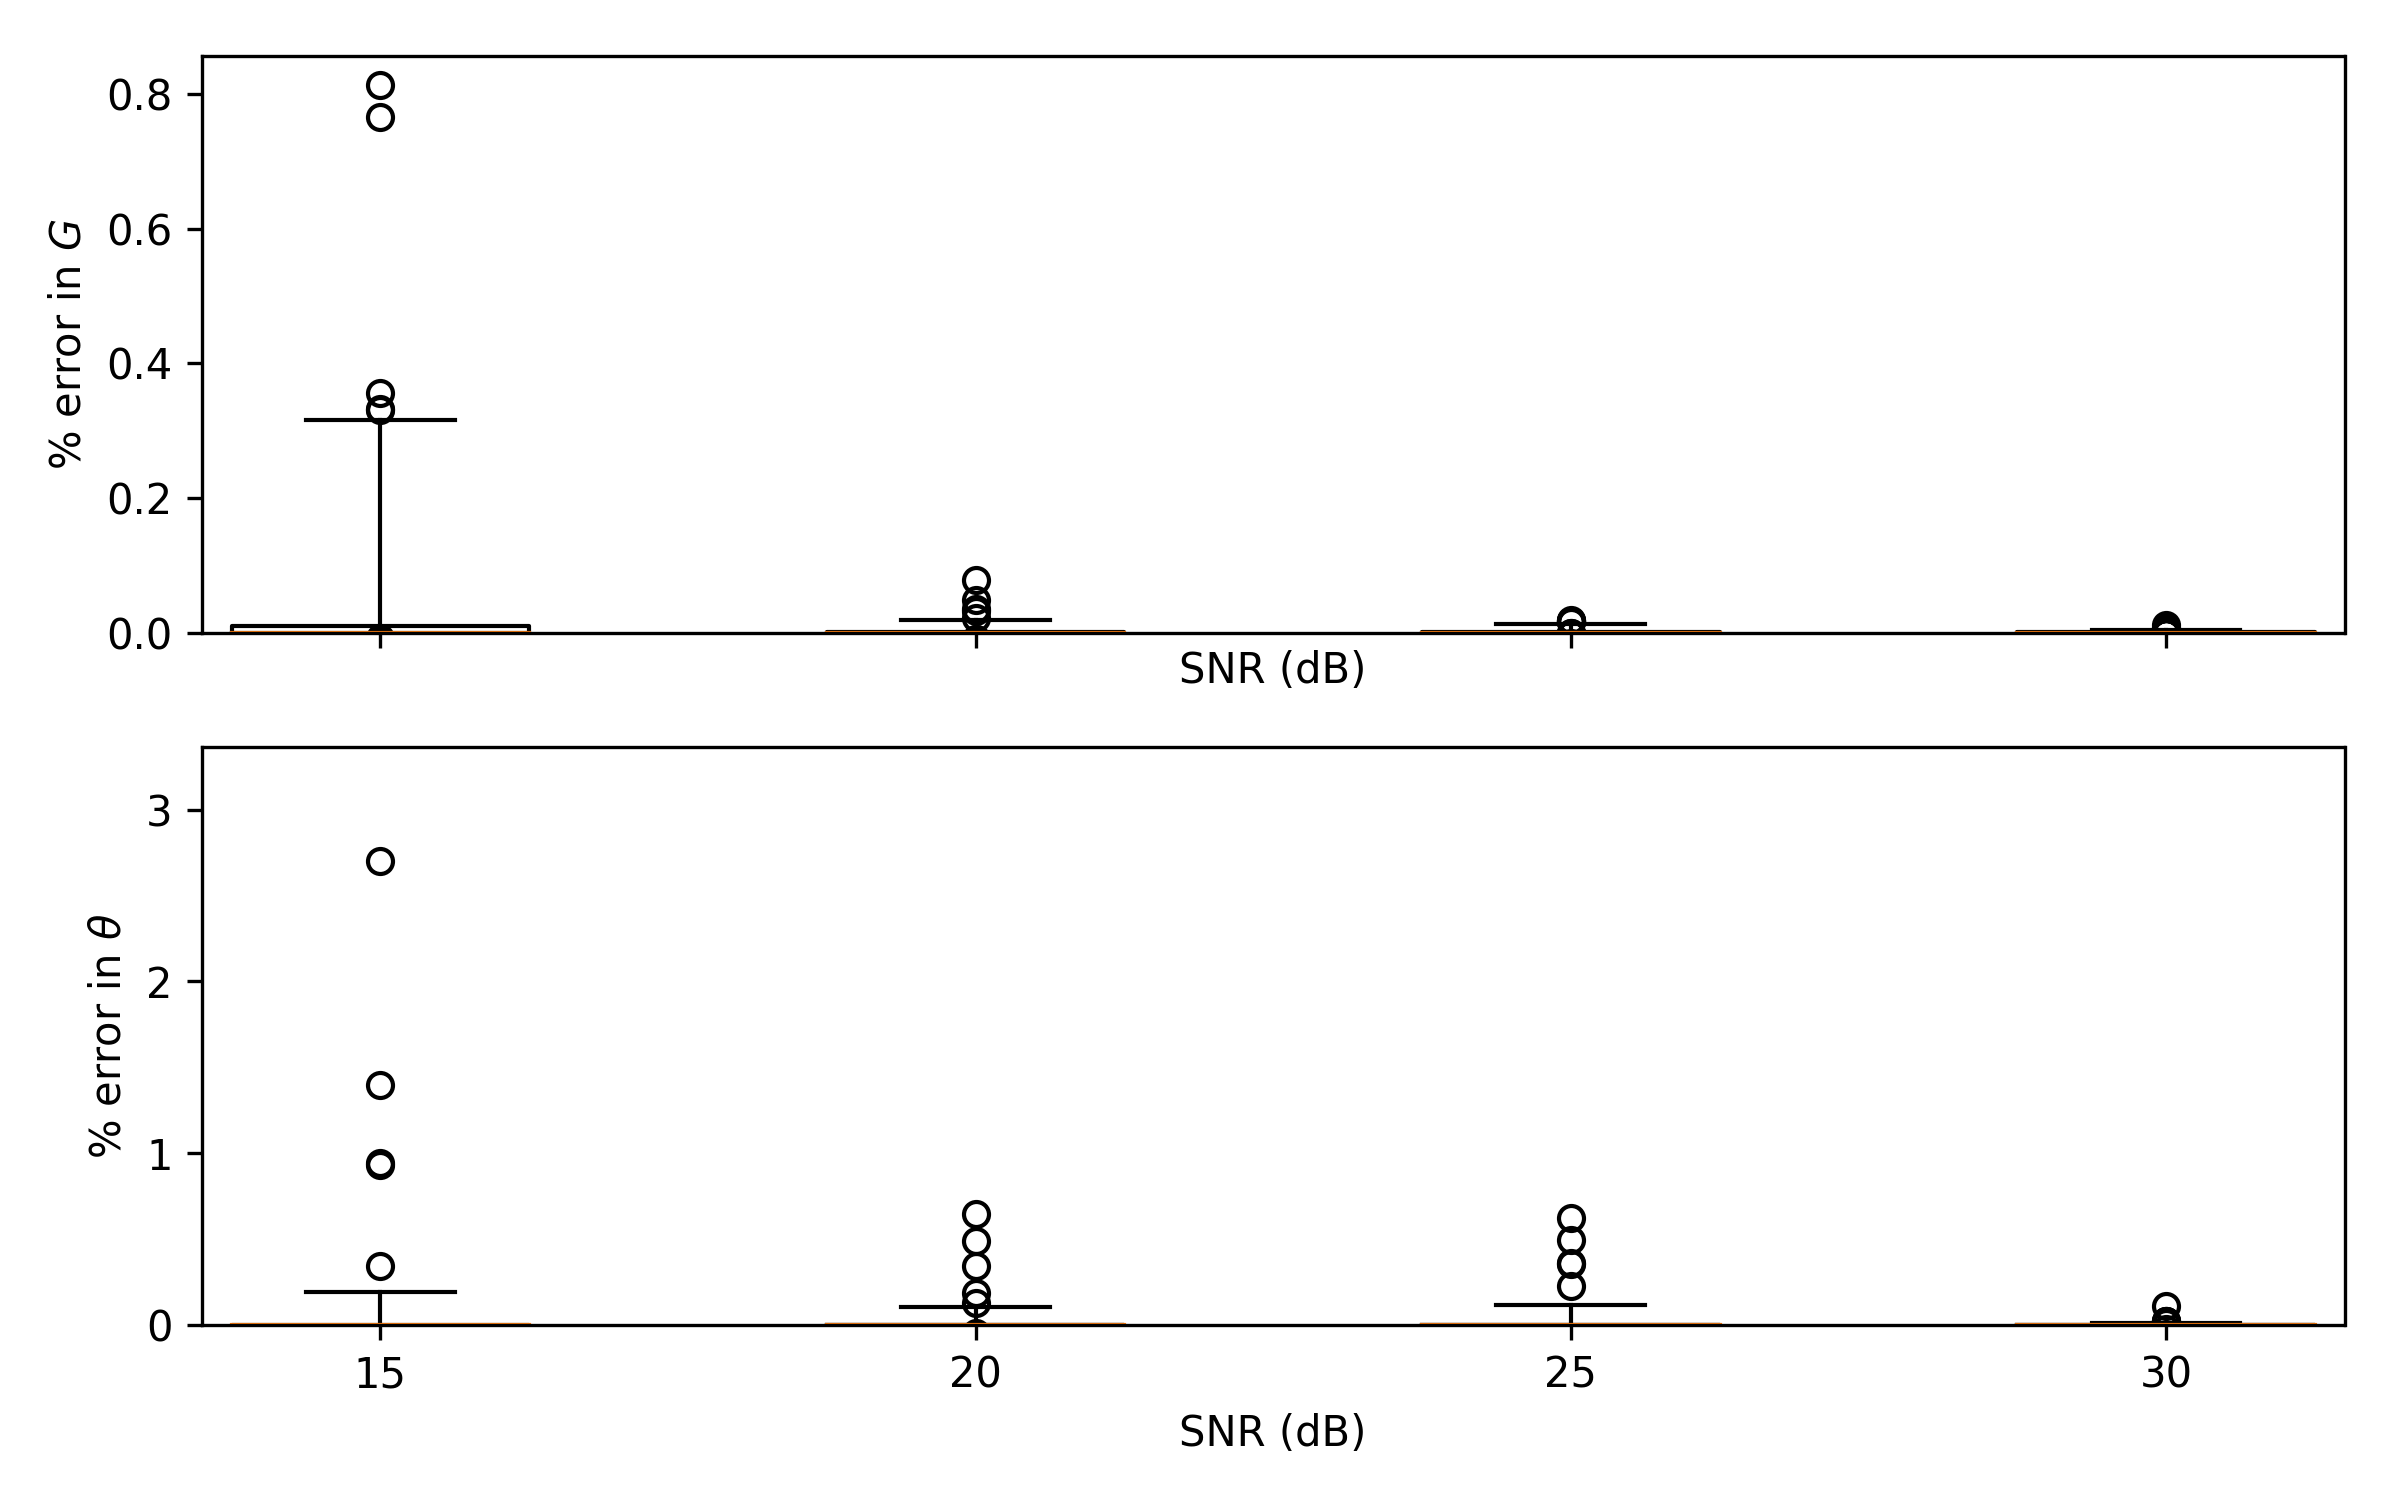
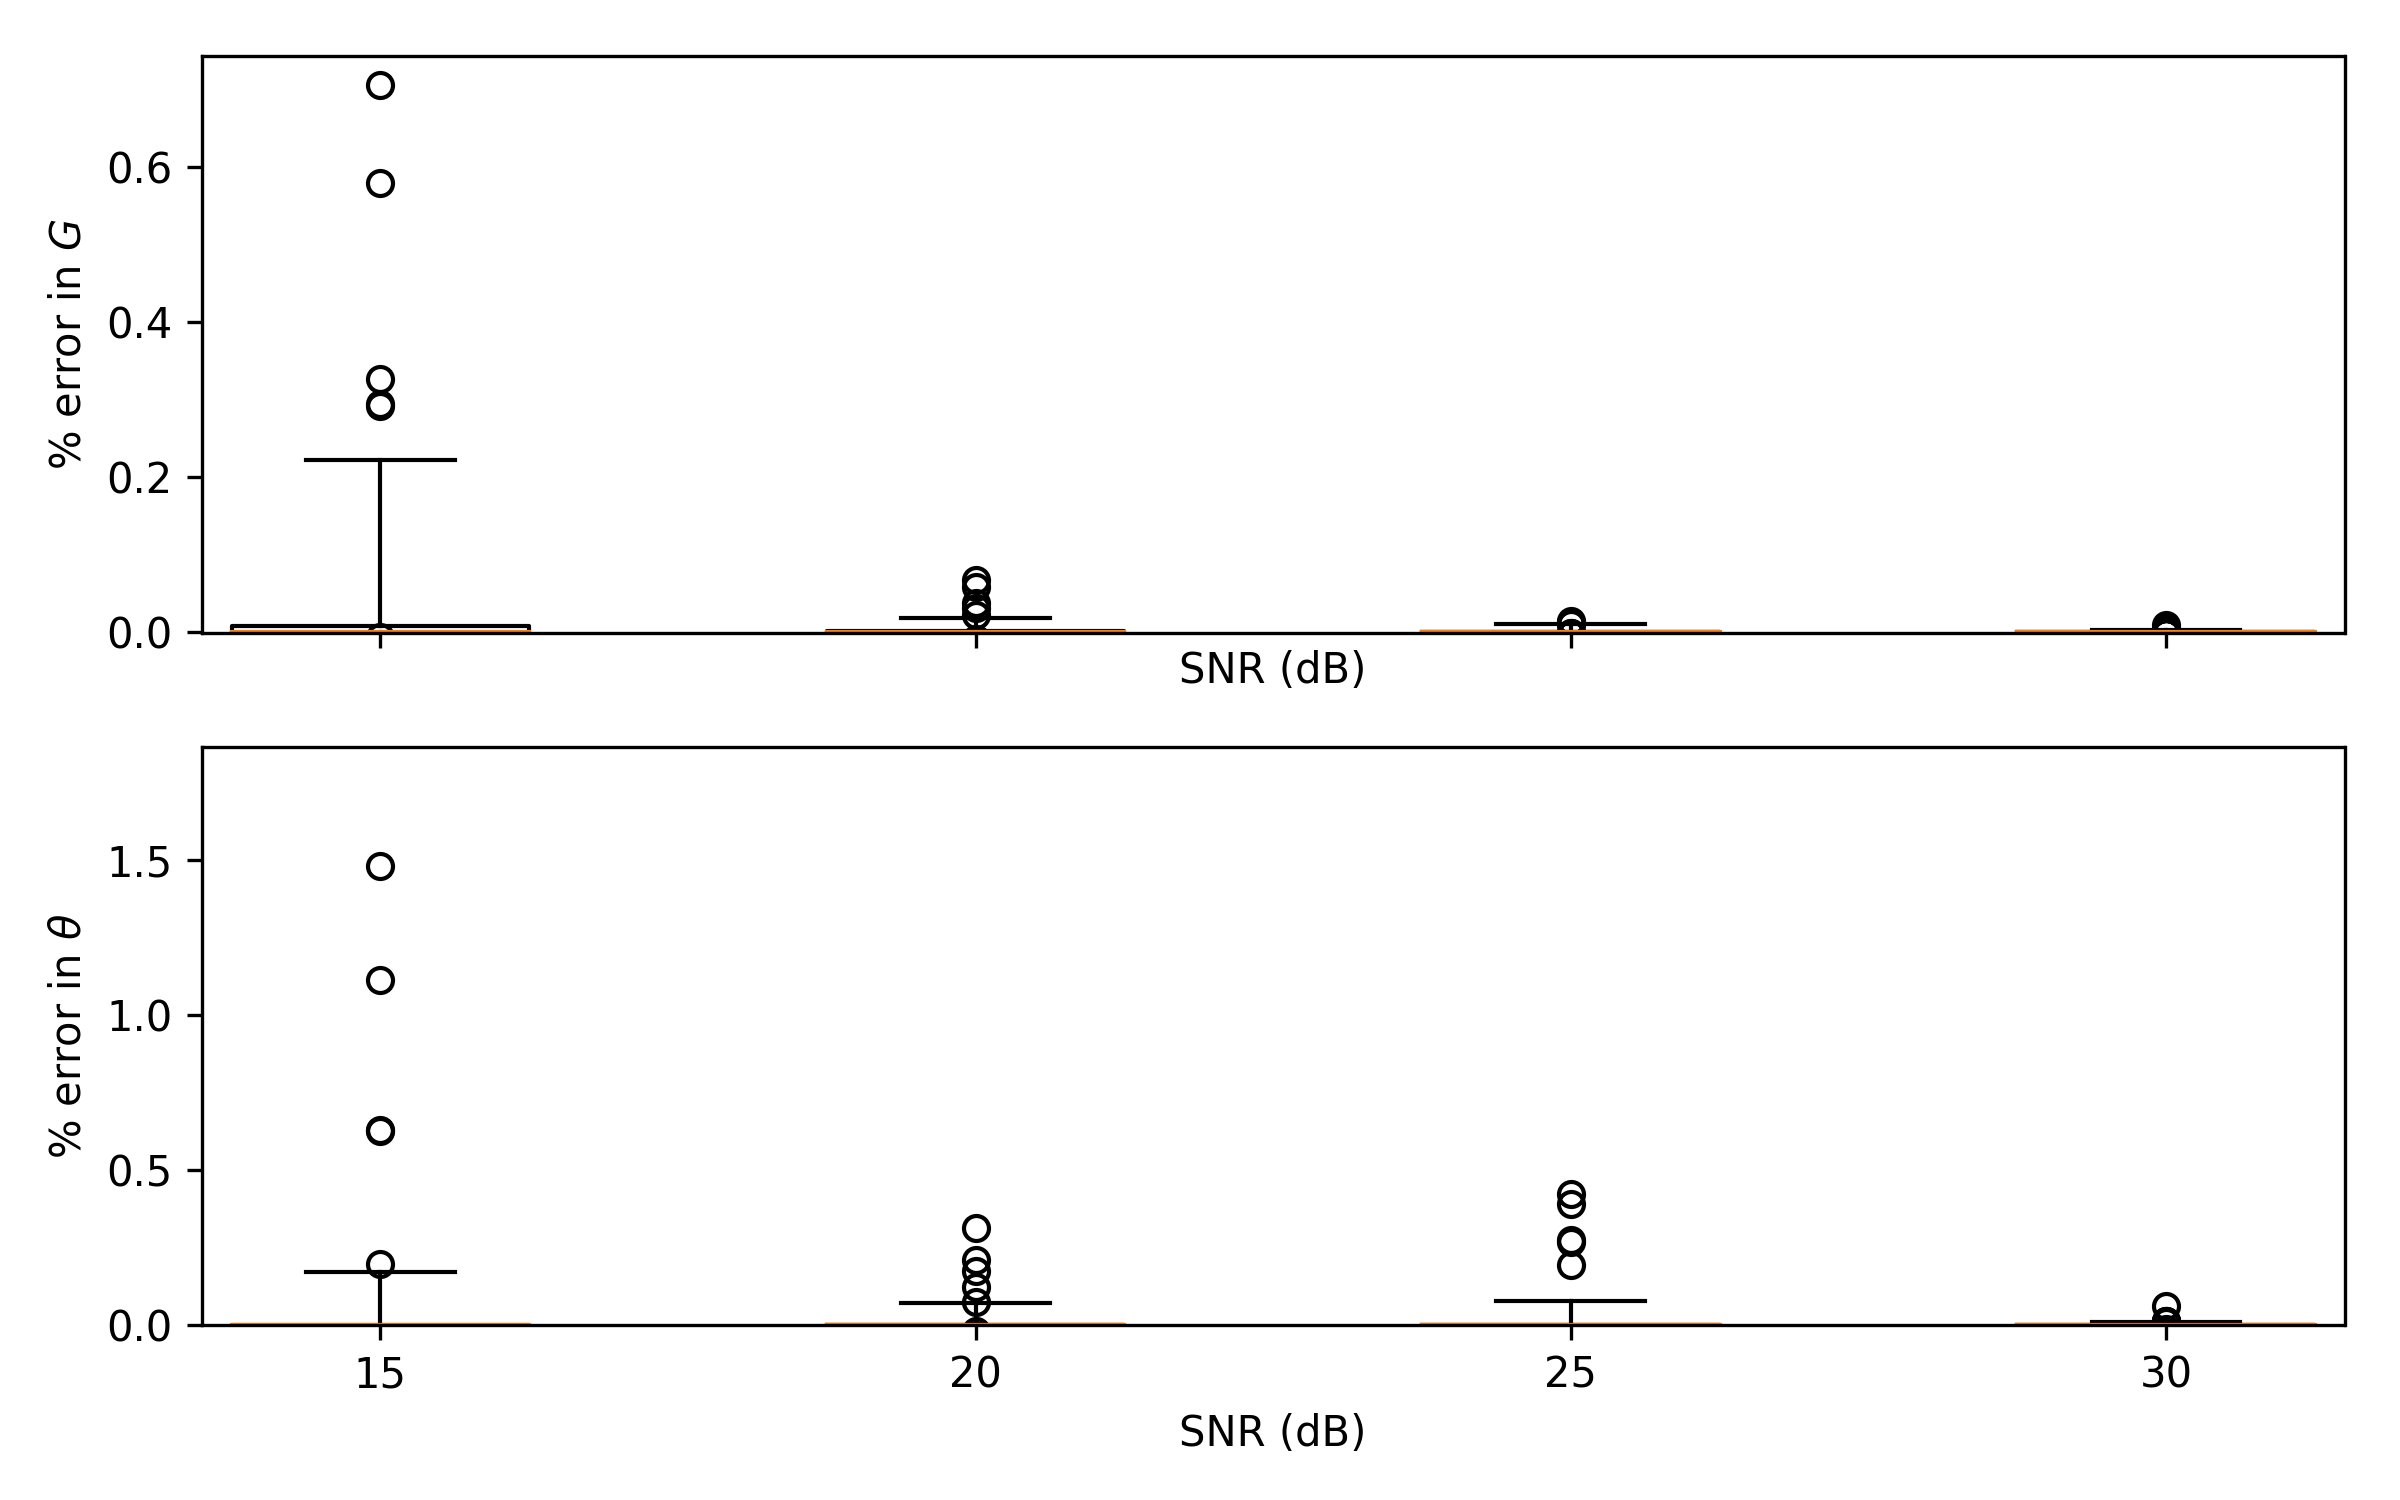
Use pint parameters and axes everywhere
This commit introduces pint into this project. Now all parameters and
axes are formatted using pint (where possible) to facilitate plotting
and readability of the codebase. Furher, units provide an improved
debugging experience by raising exceptions when a developer attempts
to construct a model that results in non-physical units.

This commit is inline with commit 551d072 in the fitkit project where
parameters may be defined using units for more logical model
construction.

Pint is not full compatible with numpy or sympy and as such some hacks
have been necessary to get this to work. Hopefully these hacks can be
removed with future improvements to pint. For example, see `in_hz` in
qutilities/notch.py for a situation where a 'pint hack' was required.

diff --git a/qutilities/notch.py b/qutilities/notch.py
@@ -18,8 +18,8 @@ from fitkit.decimate import *
 
 def ideal_notch(b_Qi = (3, 4.5, 6),
                 b_Qc = (3, 4.5, 6),
-                b_phi = (-45, 0, 45),
-                b_fr = (1e9, 5e9, 11e9)):
+                b_phi = (-60*ureg('degree'), 0*ureg('degree'), 60*ureg('degree')),
+                b_fr = (1*ureg('GHz'), 5*ureg('GHz'), 11*ureg('GHz'))):
     """ returns a Parametric1D model for an ideal notch resonator
 
     Params:
@@ -31,8 +31,8 @@ def ideal_notch(b_Qi = (3, 4.5, 6),
     Args:   Parameter bounds as required by Parametric1D
     """
     Ql, Qi, Qc, phi, fr, f = sp.symbols('Ql Qi Qc phi fr f')
-    s21 = 1 - Ql/(10**Qc) * sp.exp(-1j * (np.pi/180) * phi)/(1 + 2j*Ql*(f/fr - 1))
-    expr = s21.subs(Ql, 1/(1/(10**Qi) + 1/((10**Qc)*sp.cos((np.pi/180) * phi))))
+    s21 = 1 - Ql/(10**Qc) * sp.exp(-1j*phi)/(1 + 2j*Ql*(f/fr - 1))
+    expr = s21.subs(Ql, 1/(1/(10**Qi) + 1/((10**Qc)*sp.cos(phi))))
 
     params = {'Qi': b_Qi, 'Qc': b_Qc, 'phi': b_phi, 'fr': b_fr}
 
@@ -54,7 +54,7 @@ def rm_global_gain_and_phase(s21):
     z = z_at_f_infty(s21, circle_fit(s21)[0]) # from .features
 
     pm_env.v['G'] = 10*np.log10(np.abs(z))
-    pm_env.v['theta'] = np.rad2deg(np.angle(z))
+    pm_env.v['theta'] = np.angle(z)*ureg('radian')
 
     return s21 / z, pm_env
 
@@ -74,36 +74,36 @@ def fit_notch(s21, N = 500):
         notch:  The Parametric1D model of the fitted resonance
         stds:   The standard deviations of the fitted quality factors Qc and Qi
     """
-    f = s21.x.magnitude if hasattr(s21.x, 'units') else s21.x
-    notch = ideal_notch(b_fr = (np.min(f), np.mean(f), np.max(f)))
+    notch = ideal_notch(b_fr = (np.min(s21.x), np.mean(s21.x), np.max(s21.x)))
     circle, eps = circle_fit(s21)
 
     # estimate the tilt angle based on the circle centre
-    phi = -np.angle(1 - circle.z)
-    notch.v['phi'] = round_into_range(np.rad2deg(phi),
-                                      notch.v._l['phi'],
-                                      notch.v._u['phi'])
+    notch.v['phi'] = -np.angle(1 - circle.z)*ureg('radian')
 
     # estimate the resonance frequency to be diametrically opposite 1 + 0j
     sfr = -(1 + 0j - circle.z) + circle.z
-    fr = (s21 - sfr).abs().idxmin()
-    notch.v['fr'] = fr.to_base_units().magnitude if hasattr(fr, 'units') else fr
+    notch.v['fr'] = (s21 - sfr).abs().idxmin()
 
     # construct a simplified model using measured parameters above
-    Ql, f = sp.symbols('Ql f')
-    expr = 1 - 2*circle.r*np.exp(-1j*phi) / (1 + 2j*Ql*(f/notch.v['fr'] - 1))
+    Ql, fr, f = sp.symbols('Ql fr f')
+    expr = 1 - 2*circle.r*np.exp(-1j*notch.v['phi'].magnitude) \
+               / (1 + 2j*Ql*(f*ureg('Hz')/notch.v['fr'] - 1))
 
     Qrough = notch.v['fr']/fwhm(s21) # the fwhm estimates a good starting point
     simple_pm = Parametric1D(expr, {'Ql': (.8*Qrough, Qrough, 1.2*Qrough)})
 
+    # convert to dimensionless as units have been cancelled in above expr. sympy
+    # and pint don't play nice!
+    in_hz = Signal1D(s21.values, xraw = s21.x.to('Hz').magnitude)
+
     # decimate the data to reduce the influence of off resonance points on the fit
-    simple_pm.fit(decimate_by_derivative(s21, N))
+    simple_pm.fit(decimate_by_derivative(in_hz, N))
 
     # calculate individual quality factors from the fitted loaded quality factor
     Qc = simple_pm.v['Ql']/(2*circle.r)
     notch.v['Qc'] = round_into_range(np.log10(Qc), notch.v._l['Qc'], notch.v._u['Qc'])
 
-    Qi = 1/(1/simple_pm.v['Ql'] - 1/(Qc*np.cos(phi)))
+    Qi = 1/(1/simple_pm.v['Ql'] - 1/(Qc*np.cos(notch.v['phi'])))
     notch.v['Qi'] = round_into_range(np.log10(Qi), notch.v._l['Qi'], notch.v._u['Qi'])
 
     # estimate the standard deviations associated with the estimated Q factors

diff --git a/qutilities/line_delay.py b/qutilities/line_delay.py
@@ -10,8 +10,9 @@ from fitkit import *
 from fitkit.decimate import *
 
 from .circle import *
+from qutilities import *
 
-def pm_line_delay(b_tau = (0, 0, 25/3e8)):
+def pm_line_delay(b_tau = (0*ureg('s'), 0*ureg('s'), 25/3e8 * ureg('s'))):
     """ returns a Parametric1D model for the line delay
 
     Params:
@@ -40,20 +41,20 @@ def rm_line_delay(s21, k = 10, N = 201):
     """
 
     # unwrap the phase and fit linear model to obtain a starting point for tau
-    f = np.array(s21.x.magnitude if hasattr(s21.x, 'units') else s21.x)
     phi = np.unwrap(np.angle(s21.values))
 
-    p = np.poly1d(np.polyfit(f[:k], phi[:k], 1))
-    tau_0 = p.c[0]/(2*np.pi) # we expect this to be negative
+    p = np.poly1d(np.polyfit(s21.x[:k].to('Hz').magnitude, phi[:k], 1))
+    tau_0 = p.c[0]*ureg('s')/(2*np.pi) # we expect this to be negative
+    # ^ make pint and numpy play nice
 
-    rough = s21*Signal1D(np.exp(-2j*np.pi*tau_0*f), xraw = s21.x)
+    rough = s21*Signal1D(np.exp(-2j*np.pi*tau_0*s21.x), xraw = s21.x)
 
     # construct the model and a circle fitting based error function
-    pm_neg = pm_line_delay(b_tau = (-np.abs(tau_0), 0, np.abs(tau_0)))
+    pm_neg = pm_line_delay(b_tau = (-np.abs(tau_0), 0*ureg('s'), np.abs(tau_0)))
 
     def errf(v, self, sig1d, _):
         try:
-            pm_neg.v['tau'] = v[0]
+            pm_neg.v['tau'] = v[0]*pm_neg.v['tau'].to_base_units().units
         except:
             pass # return the same result as the previously set parameter!
         return circle_fit(sig1d*pm_neg(sig1d.x))[-1]
@@ -66,4 +67,4 @@ def rm_line_delay(s21, k = 10, N = 201):
     tau_f = -(pm_neg.v['tau'] + tau_0)
     bounds = (tau_f - .5*np.abs(tau_f), tau_f, tau_f + .5*np.abs(tau_f))
     ld_model = pm_line_delay(b_tau = bounds)
-    return s21*Signal1D(np.exp(2j*np.pi*tau_f*f), xraw = s21.x), ld_model
+    return s21*Signal1D(np.exp(2j*np.pi*tau_f*s21.x), xraw = s21.x), ld_model

diff --git a/test/test_line_delay_fit.py b/test/test_line_delay_fit.py
@@ -3,25 +3,25 @@ import pytest
 import numpy as np
 import matplotlib.pyplot as plt
 
-from fitkit import *
+from fitkit import Signal1D
 from fitkit.datasheet import *
 
 from qutilities import *
 
 @pytest.fixture
 def resonators_w_line_delays():
-    fc = 5e9
-    nch = ideal_notch(b_fr = (5e9, 5e9, 5e9)) # force resonance frequency to be fc
+    fc = 5*ureg('GHz')
+    nch = ideal_notch(b_fr = (fc, fc, fc))
     env = pm_line_delay()
 
     resonances, taus = [], []
-    x = pint_safe_linspace(4.95e9, 5.05e9, 1000)
+    x = np.linspace(fc - 50*ureg('MHz'), fc + 50*ureg('MHz'), 1000)
     np.random.seed(40)
     for (s21, m1), (ld, m2) in zip(sample(nch, 5, x), sample(env, 5, x)):
         # sample each resonance with centre frequency fc and span 20*fwhm
         fwhm_samples = s21.samples_below(s21.min() + np.ptp(s21.values)/2)
         fwhm = np.ptp(fwhm_samples.x)
-        f = pint_safe_linspace(fc - 10*fwhm, fc + 10*fwhm, 1000)
+        f = np.linspace(fc - 10*fwhm, fc + 10*fwhm, 1000)
         model = nch(f).values*env(f).values
 
         # inject some magnitude only noise. XXX: build this into fitkit
@@ -35,7 +35,6 @@ def resonators_w_line_delays():
 def test_ld_fit_plot(resonators_w_line_delays):
     for tau, res in resonators_w_line_delays:
         transformed, pm1d = rm_line_delay(res)
-        assert pm1d.v['tau'] == pytest.approx(tau, rel = 5e-2)
         axes = plot_s21(transformed)
         axes = plot_s21(res, axes = axes)
         circle_fit(transformed)[0].add_to(axes[-1])

diff --git a/qutilities/features.py b/qutilities/features.py
@@ -9,8 +9,10 @@ import numpy as np
 import sympy as sp
 
 from fitkit import *
+from qutilities import ureg
 
-def global_gain_and_phase(b_G = (-20, 0, 20), b_theta = (-180, 0, 180)):
+def global_gain_and_phase(b_G = (-20, 0, 20),
+                          b_theta = (-180*ureg('degree'), 0*ureg('degree'), 180*ureg('degree'))):
     """ returns a Parametric1D model of a global gain and phase component
 
     Parameters:
@@ -20,7 +22,7 @@ def global_gain_and_phase(b_G = (-20, 0, 20), b_theta = (-180, 0, 180)):
     Args:   The parameter bounds as required by Parametric1D
     """
     G, theta = sp.symbols('G theta')
-    cartesian = 10**(G/10) * sp.exp(1j * np.pi/180 * theta)
+    cartesian = 10**(G/10) * sp.exp(1j * theta)
     return Parametric1D(cartesian, {'G': b_G, 'theta': b_theta})
 
 def z_at_f_infty(s21, circle):
@@ -43,5 +45,4 @@ def fwhm(s21):
     mag = s21.abs()
     half_max = mag.min() + .5*np.ptp(mag.values)
     fwhm = np.ptp(mag.samples_below(half_max).x)
-    return fwhm.to_base_units().magnitude if hasattr(fwhm, 'units') else fwhm
-
+    return fwhm

diff --git a/datasheet/sampler.py b/datasheet/sampler.py
@@ -5,6 +5,9 @@ author: daniel parker
 
 import numpy as np
 from copy import deepcopy
+from tqdm import tqdm
+
+from fitkit.datasheet import *
 
 def notch_sampler(pm1d, N, **callkwargs):
     """ sample notch model for N uniformly sampled points in the parameter space
@@ -22,12 +25,12 @@ def notch_sampler(pm1d, N, **callkwargs):
         mdata:      A copy of the parameters that were sampled
     """
     v_init = deepcopy(pm1d.v)
-    for _ in range(N):
+    for _ in tqdm(range(N)):
         for p in pm1d.v:
-            pm1d.v[p] = np.random.uniform(pm1d.v._l[p], pm1d.v._u[p])
+            pm1d.v[p] = pint_safe_uniform(pm1d.v._l[p], pm1d.v._u[p])
 
         fr = pm1d.v['fr']
-        phi = np.deg2rad(np.cos(pm1d.v['phi']))
+        phi = np.cos(pm1d.v['phi'])
         Ql = 1/(1/(10**pm1d.v['Qi']) + 1/((10**pm1d.v['Qc'])*np.cos(phi)))
         span = 20 * (fr/Ql) # the estimated fwhm
 

diff --git a/datasheet/notch_performance.py b/datasheet/notch_performance.py
@@ -12,7 +12,9 @@ def perc_metric(sig1d, mdata):
     fit, fit_mdata = fit_notch(sig1d)
 
     for p in fit.v:
-        fit_mdata[f"perc_{p}"] = 100*np.abs(fit.v[p] - mdata[p])/mdata[p]
+        fit_mdata[f"perc_{p}"] = 100*np.abs((fit.v[p] - mdata[p])/mdata[p])
+        if hasattr(fit.v[p], 'units'):
+            fit_mdata[f"perc_{p}"] = fit_mdata[f"perc_{p}"].to_reduced_units().magnitude
     fit_mdata['parameters'] = mdata
     fit_mdata['test_case'] = sig1d
 

diff --git a/qutilities/__init__.py b/qutilities/__init__.py
@@ -1,3 +1,22 @@
+# pint setup
+import os
+import warnings
+
+os.environ['PINT_ARRAY_PROTOCOL_FALLBACK'] = "0"
+
+from pint import UnitRegistry, set_application_registry
+
+ureg = UnitRegistry()
+ureg.setup_matplotlib(True)
+set_application_registry(ureg)
+
+Q_ = ureg.Quantity
+
+with warnings.catch_warnings():
+  warnings.simplefilter("ignore")
+  Q_([])
+
+# local imports
 from .features import *
 from .plot import *
 from .line_delay import *

diff --git a/test/test_circle_fit.py b/test/test_circle_fit.py
@@ -9,7 +9,7 @@ from qutilities.circle import *
 @pytest.fixture
 def notch_resonator():
     nch = ideal_notch()
-    s21 = nch(np.linspace(4.5e9, 5.5e9, 10000))
+    s21 = nch(np.linspace(4.5*ureg('GHz'), 5.5*ureg('GHz'), 10000))
     return s21
 
 @pytest.mark.plot

diff --git a/setup.py b/setup.py
@@ -11,6 +11,7 @@ setup(name='qutilities',
           'numpy>=1.16.3',
           'sympy>=1.5.1',
           'pandas>=0.24.0'
-          'fitkit>=0.1.0',
+          'fitkit>=0.1.1',
+          'pint>=0.9',
           'matplotlib',
         ])

diff --git a/README.md b/README.md
@@ -18,9 +18,10 @@ order to fit them with `qutilities`:
 import pandas as pd
 
 from fitkit import Signal1D
+from qutilities import *
 
 df = pd.read_pickle('examples/sample_data.pkl') # complex s21 dataset
-data = [Signal1D(df[col], xraw = df.index) for col in df]
+data = [Signal1D(df[col], xraw = df.index.values*ureg('Hz')) for col in df]
 
 for s21 in data:
     s21.plot(style = 'dB')
@@ -34,8 +35,6 @@ the line delay should be consistent between different measurements taken during 
 same experiment.
 
 ```python
-from qutilities import *
-
 processed, line_delay_model = rm_line_delay(data[0])
 
 data[0].plot(style = 'deg')
